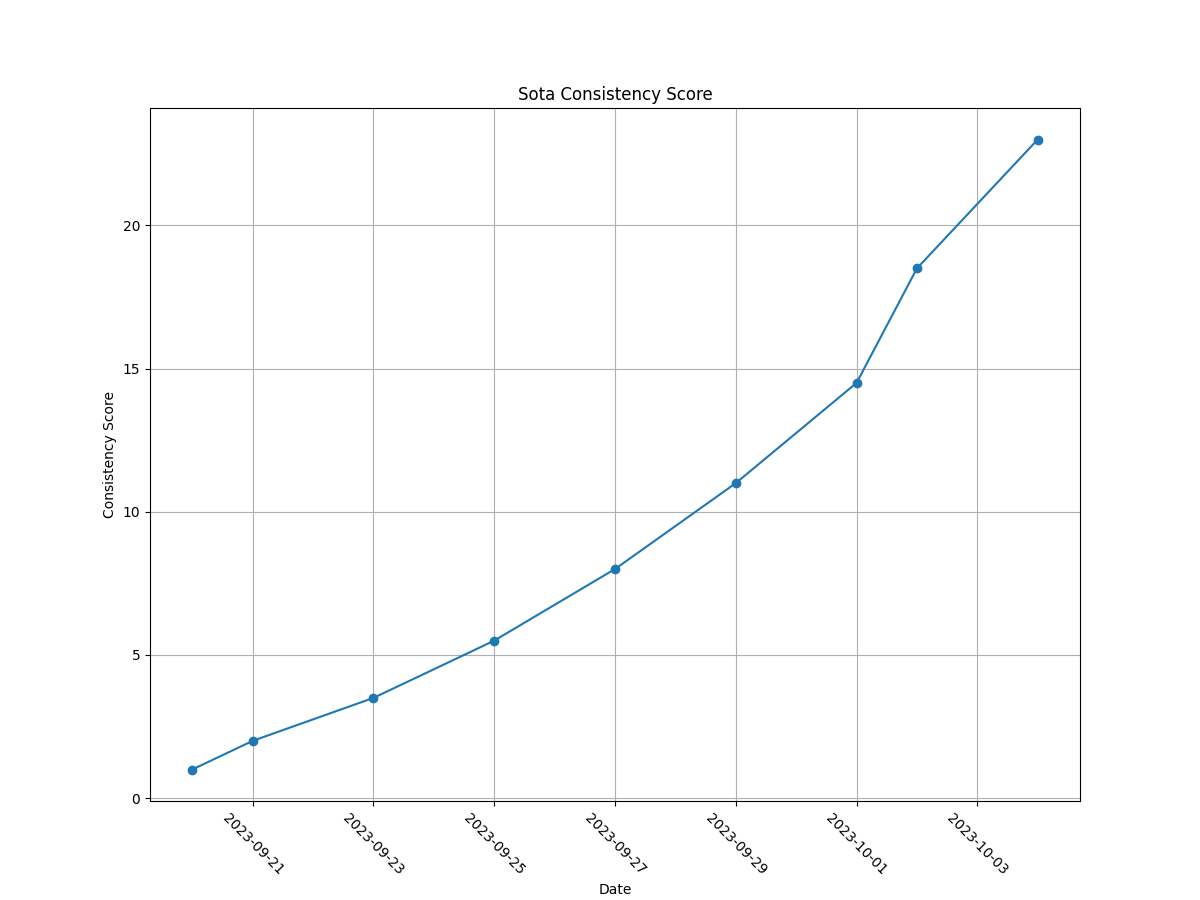
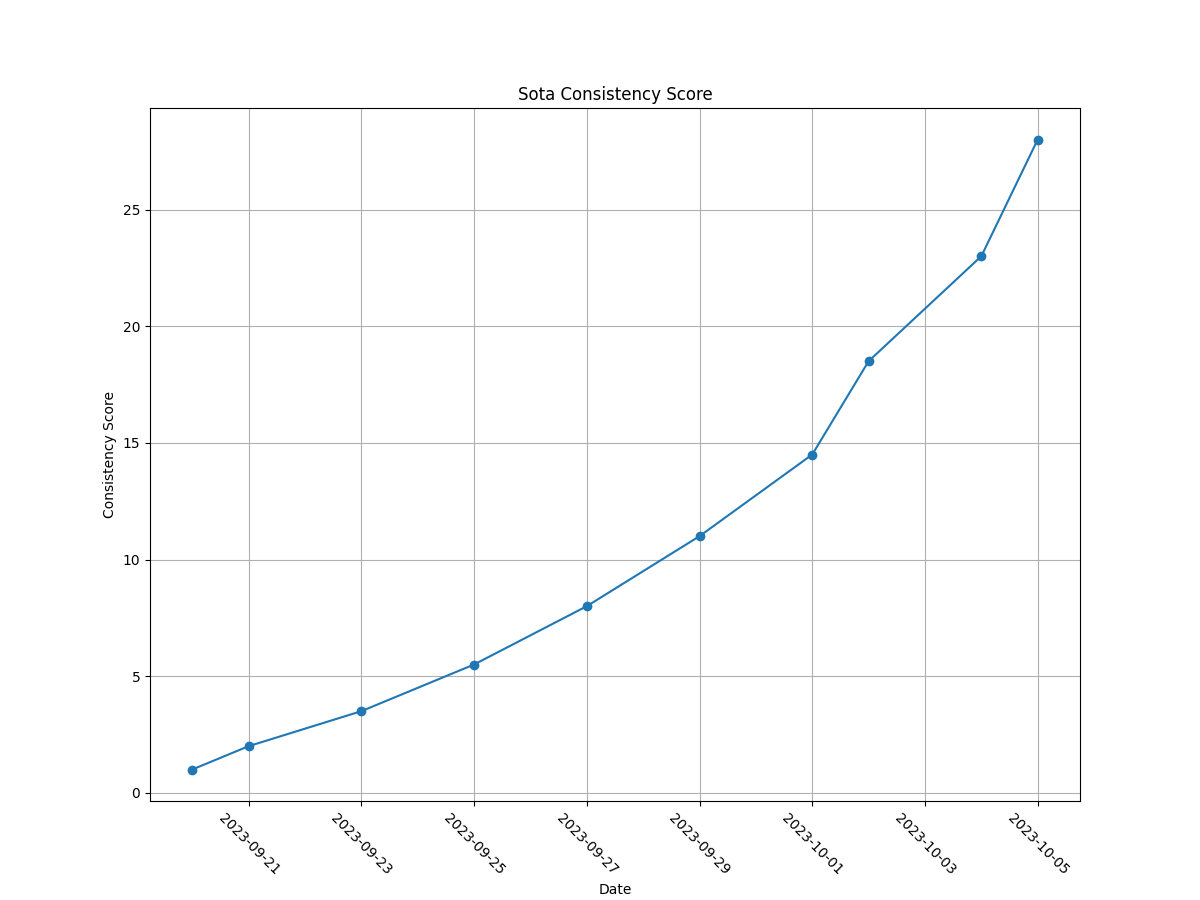
daily workout update

diff --git a/sota_data.py b/sota_data.py
@@ -9,7 +9,8 @@ SOTA_DATA = [
     {"date": "2023-09-29", "distance_miles": 2.79, "time_minutes": 83, "name": "Sota"},
     {"date": "2023-10-01", "distance_miles": 1.62, "time_minutes": 56, "name": "Sota"},
     {"date": "2023-10-02", "distance_miles": 2.49, "time_minutes": 30, "name": "Sota"},
-    {"date": "2023-10-04", "distance_miles": 2.12, "time_minutes": 30, "name": "Sota"}
+    {"date": "2023-10-04", "distance_miles": 2.12, "time_minutes": 30, "name": "Sota"},
+    {"date": "2023-10-05", "distance_miles": 1.99, "time_minutes": 30, "name": "Sota"}
 ]
 
 SOTA_CONSISTENCY_TUPLES = [(datum['time_minutes'], util.to_date(datum['date'])) for datum in SOTA_DATA]
